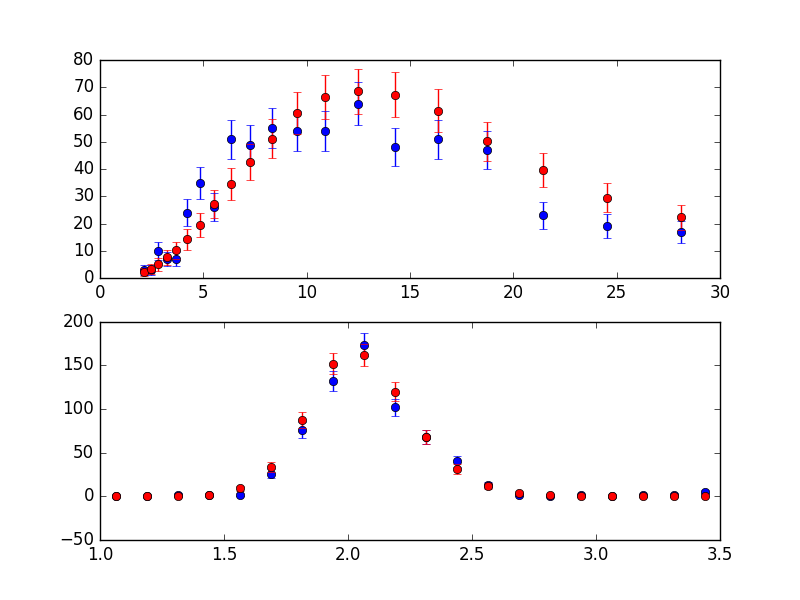
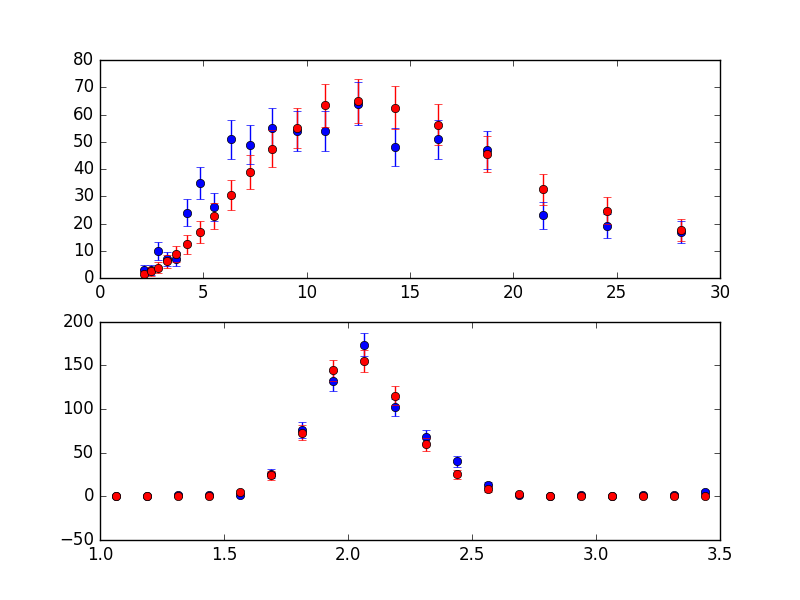
Updated code for moved liquid scintillator positions

diff --git a/nr/coincidence_fitting/fit_nr.py b/nr/coincidence_fitting/fit_nr.py
@@ -756,7 +756,7 @@ class fit_nr(object):
             # check if reduced file exists
             coincidence_degree_setting = True
             if degree_setting > 0:
-                if not self.identifier == 'mlti_moved_pos':
+                if not self.fit_type == 'mlti_moved_pos':
                     current_path_to_reduced_energy_spectra = '%snerixsim-%dkeV.root' % (self.path_to_reduced_energy_spectra, self.d_degree_setting_to_energy_name[degree_setting])
                 else:
                     current_path_to_reduced_energy_spectra = '%snerixsim-%dkeV_moved_pos.root' % (self.path_to_reduced_energy_spectra, self.d_degree_setting_to_energy_name[degree_setting])
@@ -772,7 +772,7 @@ class fit_nr(object):
             
                 # load the raw data file
                 if coincidence_degree_setting:
-                    if not self.identifier == 'mlti_moved_pos':
+                    if not self.fit_type == 'mlti_moved_pos':
                         current_path_to_energy_spectra = '%snerixsim-%dkeV.root' % (self.path_to_energy_spectra, self.d_degree_setting_to_energy_name[degree_setting])
                     else:
                         current_path_to_energy_spectra = '%snerixsim-%dkeV_moved_pos.root' % (self.path_to_energy_spectra, self.d_degree_setting_to_energy_name[degree_setting])
@@ -1888,7 +1888,7 @@ class fit_nr(object):
                 #a_s1_s2_mc = np.multiply(a_s1_s2_mc, float(scale_par)*self.d_coincidence_data_information[cathode_setting][degree_setting]['num_data_pts']/float(self.num_mc_events*self.num_loops))
                 a_s1_s2_mc = np.multiply(a_s1_s2_mc, float(scale_par)*integral_data/float(integral_mc))
 
-                # likelihood for mlti
+                # likelihood for test
                 if draw_fit:
 
                     f, (ax1, ax2) = plt.subplots(2, sharex=True, sharey=True)
@@ -2508,7 +2508,9 @@ class fit_nr(object):
                 a_free_parameter_guesses = [1.50570624e-01, 1.73586063e-01, 1.20784480e-01, 8.28728080e-02, 2.50685523e-01, 3.47215755e+01, 2.97646444e-02, 1.17420176e+00, 3.29941916e-01, 8.60177855e-01, 1.37438771e-01, 8.81837797e-01, 2.82658988e-01, 7.59336611e-01, 3.93830317e-01, 9.75755515e-01, 4.09473409e-02, 1.83664545e-01, 3.48234408e+01, 3.78743406e-02, 1.29242185e+00, 1.18262763e-01, 7.30735165e-01, 2.50593149e-01, 7.81316055e-01, 3.63693355e-01, 9.32919132e-01, 3.13526304e-01, 8.52441265e-01, 5.72525297e-02, 2.44435244e-01, 3.42007248e+01, 2.61562638e-02, 1.27534975e+00, 1.26479405e-01, 8.01497954e-01, 2.27479810e-01, 8.70813328e-01, 3.94553333e-01, 9.02541013e-01, 3.48684210e-01, 9.43474342e-01]
             
             elif self.fit_type[:4] == 'mlti':
-                a_free_parameter_guesses = [3.22182010e+03, 1.56037068e-01, 3.05109850e+00, 1.16001614e+00, 1.26899592e-01, 9.72338277e-01, 2.20896740e+00, 1.24605540e-01, 2.00780510e-01, 1.07290240e+03, 5.76968344e-03, 1.23491295e+00, 2.19176568e+00, 3.09352209e-01, 2.35900361e+00, 1.00254241e-01, 2.15905404e+00, 6.01790172e-03, 2.26503500e+00, 1.60397675e-01, 1.19741699e+00, 6.72672821e-03, 1.33180979e+00, 2.22957542e+00, 3.58497476e-01, 2.65224391e+00, 2.35506919e-01, 2.20839990e+00, 1.70133070e-01, 1.73809979e+00, 3.71251968e-01, 1.70512637e+00, 8.02725402e-03, 9.16496586e-01, 1.62461513e+00, 3.18310422e-01, 2.07738773e+00, 1.25221404e-01, 2.51620240e+00, 1.96360030e-01, 1.35731466e+00, 1.71761316e-01, 2.03880016e+00]
+                #a_free_parameter_guesses = [3.22182010e+03, 1.56037068e-01, 3.05109850e+00, 1.16001614e+00, 1.26899592e-01, 9.72338277e-01, 2.20896740e+00, 1.24605540e-01, 2.00780510e-01, 1.07290240e+03, 5.76968344e-03, 1.23491295e+00, 2.19176568e+00, 3.09352209e-01, 2.35900361e+00, 1.00254241e-01, 2.15905404e+00, 6.01790172e-03, 2.26503500e+00, 1.60397675e-01, 1.19741699e+00, 6.72672821e-03, 1.33180979e+00, 2.22957542e+00, 3.58497476e-01, 2.65224391e+00, 2.35506919e-01, 2.20839990e+00, 1.70133070e-01, 1.73809979e+00, 3.71251968e-01, 1.70512637e+00, 8.02725402e-03, 9.16496586e-01, 1.62461513e+00, 3.18310422e-01, 2.07738773e+00, 1.25221404e-01, 2.51620240e+00, 1.96360030e-01, 1.35731466e+00, 1.71761316e-01, 2.03880016e+00]
+                # after completed log and linear fits 170518
+                a_free_parameter_guesses = [2.52e+03, 1.71e-01, 7.22e+00, 1.13e+00, 1.73e-01, 1.60e+00, 4.98e-01, 5.39e-02, 3.63e-01, 9.92e+02, 8.50e-03, 9.21e-01, 4.00e+00, 3.77e-01, 1.92e+00, 2.19e-01, 1.78e+00, 1.32e-01, 1.53e+00, 2.06e-01, 1.49e+00, 8.59e-03, 9.21e-01, 3.95e+00, 4.32e-01, 1.94e+00, 2.67e-01, 1.75e+00, 8.82e-02, 1.43e+00, 1.96e-01, 1.47e+00, 8.97e-03, 8.64e-01, 4.12e+00, 4.03e-01, 1.96e+00, 8.91e-02, 1.64e+00, 2.15e-01, 1.52e+00, 2.20e-01, 1.46e+00]
             
             else:
                 print '\nPlease run differential evolution minimizer for this setup and implement results in source code.\n'
@@ -2985,14 +2987,16 @@ if __name__ == '__main__':
     d_coincidence_data['degree_settings'] = [-4, 3000, 3500, 4500, 5300]
     d_coincidence_data['cathode_settings'] = [0.345, 1.054, 2.356]
     
-    test = fit_nr('mlti', d_coincidence_data, num_mc_events=2e6, l_gpus=[0, 1, 2, 3, 4, 5], num_loops=4)
+    #test = fit_nr('mlti', d_coincidence_data, num_mc_events=2e6, l_gpus=[0, 1, 2, 3, 4, 5], num_loops=4)
+    test = fit_nr('mlti_moved_pos', d_coincidence_data, num_mc_events=2e4, l_gpus=[0], num_loops=4)
     
     
-
-    a_free_par_guesses = [13.7] + [2.54939588e+03, 0.14, 5.41196862e+00, 1.75879471e+00, test.g1_value, test.spe_res_value, test.extraction_efficiency_value, test.gas_gain_value, test.gas_gain_width, test.l_means_pf_eff_pars[0], test.l_means_pf_eff_pars[1], test.l_means_s2_eff_pars[0], test.l_means_s2_eff_pars[1]]
-    a_free_par_guesses += [0.15, 0.6, 7, 0.05, 0.3, 800]
+    
+    #[2.52e+03, 1.71e-01, 7.22e+00, 1.13e+00, 1.73e-01, 1.60e+00, 4.98e-01, 5.39e-02, 3.63e-01, 9.92e+02, 8.50e-03, 9.21e-01, 4.00e+00, 3.77e-01, 1.92e+00, 2.19e-01, 1.78e+00, 1.32e-01, 1.53e+00, 2.06e-01, 1.49e+00, 8.59e-03, 9.21e-01, 3.95e+00, 4.32e-01, 1.94e+00, 2.67e-01, 1.75e+00, 8.82e-02, 1.43e+00, 1.96e-01, 1.47e+00, 8.97e-03, 8.64e-01, 4.12e+00, 4.03e-01, 1.96e+00, 8.91e-02, 1.64e+00, 2.15e-01, 1.52e+00, 2.20e-01, 1.46e+00] # 43
+    a_free_par_guesses = [13.7] + [2.52e+03, 1.71e-01, 7.22e+00, 1.13e+00, test.g1_value, test.spe_res_value, test.extraction_efficiency_value, test.gas_gain_value, test.gas_gain_width, test.l_means_pf_eff_pars[0], test.l_means_pf_eff_pars[1], test.l_means_s2_eff_pars[0], test.l_means_s2_eff_pars[1]]
+    a_free_par_guesses += [1.73e-01, 1.60e+00, 4.98e-01, 5.39e-02, 3.63e-01, 9.92e+02]
     a_free_par_guesses += [0.20]
-    a_free_par_guesses += [6.53197967e-03, 9.49893129e-01, 2., 0.2213, 2.735, 0.03, 1.803, 0.2, 2.26, 0.05, 1.43, 5.27447143e-03, 1.31299744e+00, 2., 0.345, 2.57, 0.08, 1.757, 0.13, 1.53, 0.05, 1.414, 6.24836144e-03, 1.06208467e+00, 2., 0.3227, 1.84, 0.02465, 1.657, 0.082, 1.458, 0.06, 1.39]
+    a_free_par_guesses += [8.50e-03, 9.21e-01, 4.00e+00, 3.77e-01, 1.92e+00, 2.19e-01, 1.78e+00, 1.32e-01, 1.53e+00, 2.06e-01, 1.49e+00, 8.59e-03, 9.21e-01, 3.95e+00, 4.32e-01, 1.94e+00, 2.67e-01, 1.75e+00, 8.82e-02, 1.43e+00, 1.96e-01, 1.47e+00, 8.97e-03, 8.64e-01, 4.12e+00, 4.03e-01, 1.96e+00, 8.91e-02, 1.64e+00, 2.15e-01, 1.52e+00, 2.20e-01, 1.46e+00]
     #test.gpu_pool.map(test.wrapper_ln_likelihood_full_matching_multiple_energies_lindhard_model_with_ti_recombination, [a_free_par_guesses])
     
     #a_free_par_bounds = [(100, 4000), (0.1, 0.2), (1.5, 10), (0.8, 2)]
@@ -3001,8 +3005,8 @@ if __name__ == '__main__':
     #test.differential_evolution_minimizer_free_pars(a_free_par_bounds, maxiter=150, popsize=5, tol=0.1)
     
     
-    #test.suppress_likelihood(100)
-    test.run_mcmc(num_steps=38*3, num_walkers=512)
+    test.suppress_likelihood(100)
+    #test.run_mcmc(num_steps=38*3, num_walkers=512)
     
     
      

diff --git a/nr/coincidence_fitting/mcmc_analysis/make_1d_parameter_plots_coincidence.py b/nr/coincidence_fitting/mcmc_analysis/make_1d_parameter_plots_coincidence.py
@@ -45,7 +45,8 @@ if file_descriptor == 'ml':
     directory_descriptor = 'multiple_energies_lindhard_model'
 elif file_descriptor == 'mlti':
     directory_descriptor = 'multiple_energies_lindhard_model_with_ti'
-
+elif file_descriptor == 'mlti_moved_pos':
+    directory_descriptor = 'multiple_energies_lindhard_model_with_ti_moved_pos'
 
 l_degree_settings_in_use = [-4, 3000, 3500, 4500, 5300]
 s_degree_settings = ''
@@ -118,6 +119,8 @@ elif file_descriptor == 'mlti':
     l_par_names = ['w_value', 'beta', 'kappa', 'eta', 'lambda', 'g1_value', 'spe_res_value', 'extraction_efficiency_value', 'gas_gain_mean_value', 'gas_gain_width_value', 'pf_eff_par0', 'pf_eff_par1', 's2_eff_par0', 's2_eff_par1', 'pf_stdev_s1_par0', 'pf_stdev_s1_par1', 'pf_stdev_s1_par2', 'pf_stdev_s2_par0', 'pf_stdev_s2_par1', 'pf_stdev_s2_par2', 'dpe_prob'] + l_field_free_pars
 
 
+
+
 num_rows = 1
 for i in xrange(1, 10):
     if i**2 > len(l_par_names):
@@ -131,6 +134,17 @@ for num_columns in xrange(1, num_rows+1):
 
 assert num_dim == len(l_par_names)
 samples = a_full_sampler[:, -num_steps:, :].reshape((-1, num_dim))
+
+
+
+a_medians = np.median(samples, axis=0)
+print a_medians
+print '\nPrinting median parameters...'
+for i, par_name in enumerate(l_par_names):
+    print '%s = %.2e' % (par_name, a_medians[i])
+print '\n\n'
+
+
 
 
 # use pars from corner to make figure
